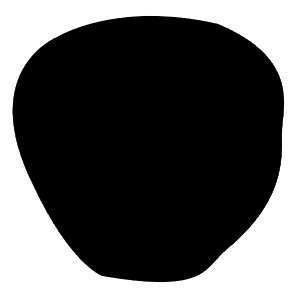
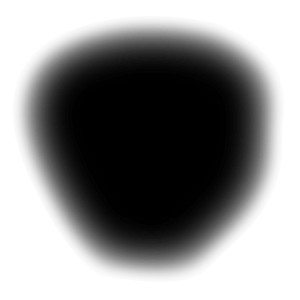
Adds better (?) mouths.

diff --git a/ffmpeg_create_video.py b/ffmpeg_create_video.py
@@ -73,7 +73,20 @@ def draw_mouth(mouth, character, x, y, width, height):
     x_offset = x + (width - fit_width) / 2
     y0, y1 = y_offset, (y_offset+fit_height)
     x0, x1 = x_offset, (x_offset+fit_width)
-    character[y0:y1,x0:x1] = cv2.bitwise_and(character[y0:y1,x0:x1], fit_mask) + cv2.bitwise_and(fit_image, cv2.bitwise_not(fit_mask))
+    fit_mask = numpy.float32(fit_mask) / 255.0
+    char_region = numpy.float32(character[y0:y1,x0:x1])
+    inverse_fit_mask = fit_mask * -1 + 1.0
+    mul = cv2.multiply(char_region, fit_mask)
+    m1 = cv2.mean(mul)
+    m2 = cv2.mean(fit_mask)
+    avg = numpy.float32(map(lambda x, y: x/(y * 255.0) if y else 0.0, m1, m2))
+    r = numpy.ones((fit_width,fit_height),numpy.float32)  * avg[0]
+    g = numpy.ones((fit_width,fit_height),numpy.float32)  * avg[1]
+    b = numpy.ones((fit_width,fit_height),numpy.float32)  * avg[2]
+    rgb = cv2.merge((r,g,b))
+    fit_image = cv2.multiply(numpy.float32(fit_image), rgb)
+    fit_image = cv2.multiply(fit_image, inverse_fit_mask)
+    character[y0:y1,x0:x1] = numpy.uint8(mul + fit_image * 1.2)
 
 def fit_dimensions(img, fit_width, fit_height):
     image_height, image_width = img.shape[0:2]
@@ -137,7 +150,7 @@ def create_video(script):
         script.characters[character].voice = i % 4
         i += 1
 
-    for scene in script.scenes[:10]:
+    for scene in script.scenes[:2]:
         setting_image = as_background_image(scene.setting.image)
         nchars = len(scene.characters) + 2
         dx = HORIZONTAL_RESOLUTION/nchars
